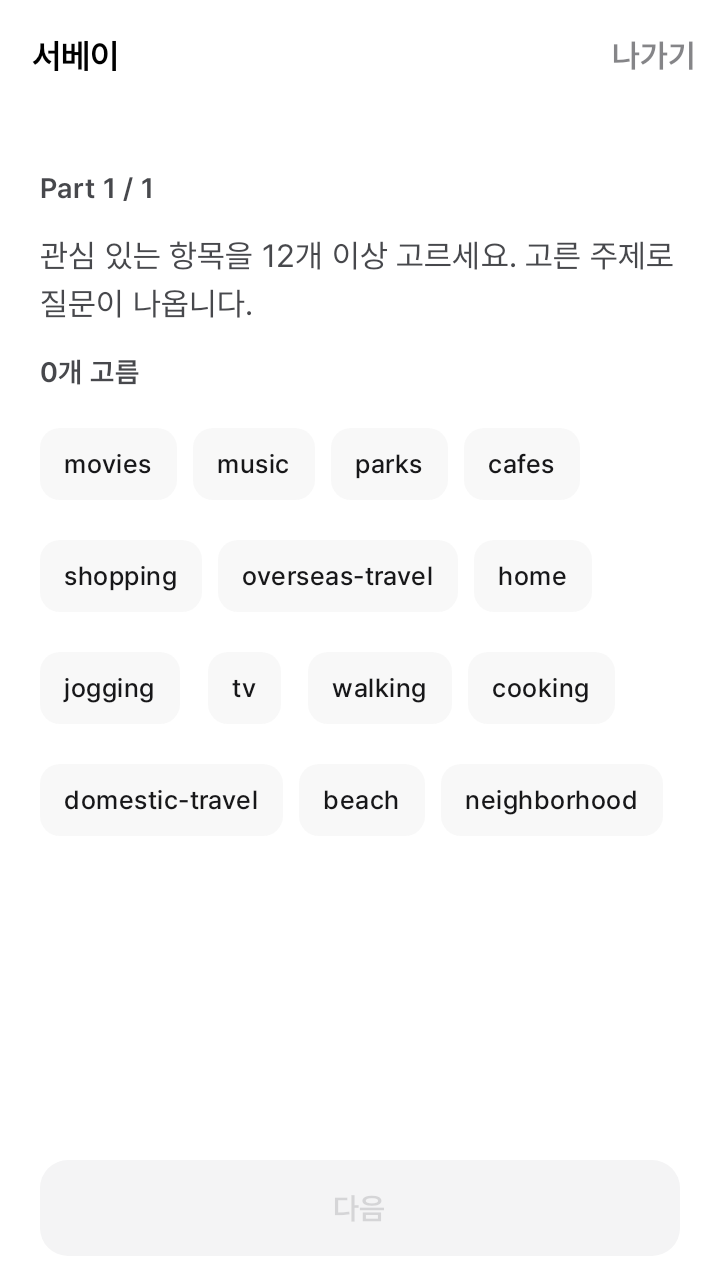
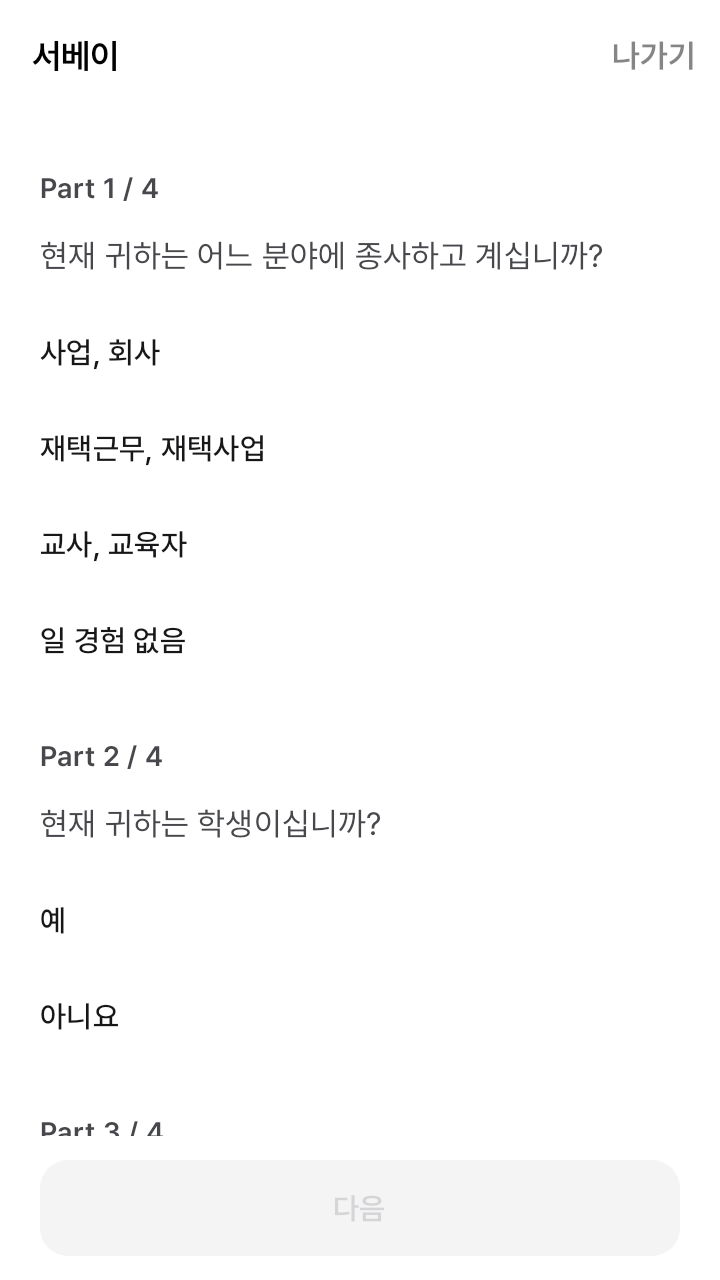
[n-survey] 서베이 Part 1~3 데이터를 시험 팩에 넣고 앱에서 넘긴다 (#141)
* [n-survey] 서베이 Part 1~3 질문과 보기를 시험 팩에 두었다 (#122)

* [n-survey] 앱이 팩의 서베이 Part 질문을 시험 화면에 넘긴다 (#122)

* [n-survey] 노드 상태를 doing 으로 바꿨다 (#122)

* [n-survey] 노드 상태를 done 으로 바꿨다 (#122)

---------

diff --git a/apps/opic/shared/src/commonTest/kotlin/io/github/nosorae/aiopic/apps/opic/shared/SurveyPartsWiringTest.kt b/apps/opic/shared/src/commonTest/kotlin/io/github/nosorae/aiopic/apps/opic/shared/SurveyPartsWiringTest.kt
@@ -1,0 +1,44 @@
+package io.github.nosorae.aiopic.apps.opic.shared
+
+import androidx.lifecycle.ViewModelProvider
+import androidx.lifecycle.ViewModelStore
+import androidx.lifecycle.viewmodel.initializer
+import androidx.lifecycle.viewmodel.viewModelFactory
+import io.github.nosorae.aiopic.engine.session.model.ExamStep
+import io.github.nosorae.aiopic.packs.opicen.OpicEn
+import io.github.nosorae.aiopic.ui.featureexam.ExamViewModel
+import io.github.nosorae.aiopic.ui.featureexam.SurveyPart
+import kotlinx.coroutines.Dispatchers
+import kotlinx.coroutines.flow.first
+import kotlinx.coroutines.test.StandardTestDispatcher
+import kotlinx.coroutines.test.resetMain
+import kotlinx.coroutines.test.runTest
+import kotlinx.coroutines.test.setMain
+import kotlin.test.AfterTest
+import kotlin.test.BeforeTest
+import kotlin.test.Test
+import kotlin.test.assertEquals
+
+/** 시험 팩의 서베이 Part 1~3 질문이 앱 그래프를 거쳐 시험 화면 상태까지 오는지 본다(F2.2). */
+class SurveyPartsWiringTest {
+    private val dispatcher = StandardTestDispatcher()
+    private val store = ViewModelStore()
+
+    @BeforeTest fun setUp() = Dispatchers.setMain(dispatcher)
+
+    @AfterTest
+    fun tearDown() {
+        store.clear()
+        Dispatchers.resetMain()
+    }
+
+    @Test
+    fun `F2_2 시험 화면의 서베이에 팩의 Part 1부터 3 질문과 보기가 그대로 들어온다`() = runTest(dispatcher) {
+        val graph = testAppGraph()
+        val viewModel = ViewModelProvider.create(store, viewModelFactory { initializer { graph.examViewModelFactory.create("s1") } })[ExamViewModel::class]
+
+        val state = viewModel.uiState.first { it.step is ExamStep.Survey }
+
+        assertEquals(OpicEn.surveyParts.map { (question, options) -> SurveyPart(question, options) }, state.surveyParts)
+    }
+}

diff --git a/apps/opic/shared/src/commonMain/kotlin/io/github/nosorae/aiopic/apps/opic/shared/AppGraph.kt b/apps/opic/shared/src/commonMain/kotlin/io/github/nosorae/aiopic/apps/opic/shared/AppGraph.kt
@@ -56,6 +56,7 @@ import io.github.nosorae.aiopic.packs.opicen.PromptFile
 import io.github.nosorae.aiopic.ui.featureexam.ExamContent
 import io.github.nosorae.aiopic.ui.featureexam.ExamRepository
 import io.github.nosorae.aiopic.ui.featureexam.ExamViewModel
+import io.github.nosorae.aiopic.ui.featureexam.SurveyPart
 import io.github.nosorae.aiopic.ui.featurehistory.HistoryStore
 import io.github.nosorae.aiopic.ui.featurehistory.HistoryViewModel
 import io.github.nosorae.aiopic.ui.featurehome.ExamSessionSource
@@ -180,11 +181,14 @@ interface AppGraph {
         OpicQuestionType.SocialIssue to "사회 이슈",
     ).mapKeys { it.key.type }
 
-    // ponytail: 시험 팩에 서베이 Part 1~3 질문이 아직 없어 주제 고르기만 보인다. 팩이 Part 질문을 내면 여기서 넘긴다
-
     /** 시험 화면을 열 때마다 만들어서 설정의 답변 타이머(F2.7)를 그때 값으로 읽는다. */
     @Provides
-    fun examContent(spec: ExamSpec, settings: AppSettings): ExamContent = ExamContent(spec, OpicEn.surveyTopics, surveyParts = emptyList(), answerTimer = settings.answerTimer)
+    fun examContent(spec: ExamSpec, settings: AppSettings): ExamContent = ExamContent(
+        spec,
+        OpicEn.surveyTopics,
+        surveyParts = OpicEn.surveyParts.map { (question, options) -> SurveyPart(question, options) },
+        answerTimer = settings.answerTimer,
+    )
 
     @Provides
     fun examRepository(

diff --git a/packs/opic-en/src/commonMain/kotlin/io/github/nosorae/aiopic/packs/opicen/OpicEn.kt b/packs/opic-en/src/commonMain/kotlin/io/github/nosorae/aiopic/packs/opicen/OpicEn.kt
@@ -39,6 +39,22 @@ object OpicEn {
 
     val gradeScale = GradeScale(OpicGrade.entries.map { it.name })
 
+    /**
+     * 서베이 주제 고르기 앞의 Part 1~3 질문과 보기(F2.2). 화면 모듈은 팩을 모르므로 질문 글자와 보기 목록 쌍으로 두고 앱이 화면 타입으로 옮긴다.
+     * 답은 출제에 쓰지 않는다. 실제 시험과 같은 순서를 밟아 보게 하려는 화면이다.
+     */
+    val surveyParts: List<Pair<String, List<String>>> = listOf(
+        "현재 귀하는 어느 분야에 종사하고 계십니까?" to listOf("사업, 회사", "재택근무, 재택사업", "교사, 교육자", "일 경험 없음"),
+        "현재 귀하는 학생이십니까?" to listOf("예", "아니요"),
+        "현재 귀하는 어디에 살고 계십니까?" to listOf(
+            "개인주택이나 아파트에 홀로 거주",
+            "친구나 룸메이트와 함께 주택이나 아파트에 거주",
+            "가족과 함께 주택이나 아파트에 거주",
+            "학교 기숙사",
+            "군대 막사",
+        ),
+    )
+
     /** 서베이에서 고를 수 있는 주제. 내장 문항 풀의 주제 id 와 같아야 그 주제 문항이 나온다(F6.2). */
     // ponytail: 화면에 주제 id 를 그대로 보인다. 한국어 이름은 문구 노드(u-copy)가 붙인다.
     val surveyTopics = listOf(

diff --git a/packs/opic-en/src/commonTest/kotlin/io/github/nosorae/aiopic/packs/opicen/OpicEnTest.kt b/packs/opic-en/src/commonTest/kotlin/io/github/nosorae/aiopic/packs/opicen/OpicEnTest.kt
@@ -3,6 +3,7 @@ package io.github.nosorae.aiopic.packs.opicen
 import io.github.nosorae.aiopic.engine.session.model.ExamStep
 import kotlin.test.Test
 import kotlin.test.assertEquals
+import kotlin.test.assertTrue
 import kotlin.time.Duration.Companion.minutes
 
 class OpicEnTest {
@@ -30,6 +31,12 @@ class OpicEnTest {
     @Test
     fun `F2_2 서베이는 12개 미만이면 다음으로 못 간다`() {
         assertEquals(ExamStep.Survey(minTopics = 12), steps.first())
+    }
+
+    @Test
+    fun `F2_2 서베이 Part 질문은 주제 앞에 셋이고 보기가 비어 있지 않다`() {
+        assertEquals(3, OpicEn.surveyParts.size)
+        assertTrue(OpicEn.surveyParts.all { (question, options) -> question.isNotBlank() && options.isNotEmpty() })
     }
 
     @Test

diff --git a/apps/opic/shared/src/androidHostTest/kotlin/io/github/nosorae/aiopic/apps/opic/shared/AppShellTest.kt b/apps/opic/shared/src/androidHostTest/kotlin/io/github/nosorae/aiopic/apps/opic/shared/AppShellTest.kt
@@ -107,7 +107,7 @@ class AppShellTest {
     fun `F3 나갔던 시험이 있으면 홈의 이어 보기가 같은 회차를 연다`() {
         start(AppRoute.Home, AppRoute.Exam("s"))
         waitForExam()
-        rule.onNodeWithText("관심 있는 항목을", substring = true).assertIsDisplayed()
+        rule.onNodeWithText("관심 있는 항목을", substring = true).performScrollTo().assertIsDisplayed()
         rule.onNodeWithText("나가기").performClick()
         rule.waitUntil(5_000) { rule.onAllNodes(hasText("이어 보기")).fetchSemanticsNodes().isNotEmpty() }
 

diff --git a/docs/graph/dev-graph.md b/docs/graph/dev-graph.md
@@ -2,7 +2,7 @@
 
 `scripts/graph/render.py` 가 `dev-graph.json` 에서 만든다. 손으로 고치지 않는다.
 
-노드 55개: todo 6, doing 0, done 49, blocked 0. 색은 회색 todo, 노랑 doing, 초록 done, 빨강 blocked 이다.
+노드 55개: todo 5, doing 0, done 50, blocked 0. 색은 회색 todo, 노랑 doing, 초록 done, 빨강 blocked 이다.
 
 ```mermaid
 flowchart TD
@@ -179,10 +179,10 @@ flowchart TD
   e2e_ios --> g5
   live --> g5
   classDef todo fill:#eeeeee,stroke:#999999,color:#000
-  class g4,n_survey,t_resume,e2e_ios,live,g5 todo
+  class g4,t_resume,e2e_ios,live,g5 todo
   classDef doing fill:#fff3b0,stroke:#d4a017,color:#000
   classDef done fill:#c8f7c5,stroke:#2e7d32,color:#000
-  class h0,h1,h2,h3,h4,g0,s1,s2,s3,s4,g1,c1,c2,c3,c5,c4,g2,n_state,n_db,n_gemini,n_route,n_key,n_tts,n_rec_a,n_rec_i,n_queue,n_quest,n_weak,n_eval,u_onb,u_shell,u_exam,u_single,u_report,u_flag,u_model,g3,n_data,n_di,u_copy,u_wire,u_settings2,e2e,docs,store,n_json,n_grade,n_flag2,n_gen done
+  class h0,h1,h2,h3,h4,g0,s1,s2,s3,s4,g1,c1,c2,c3,c5,c4,g2,n_state,n_db,n_gemini,n_route,n_key,n_tts,n_rec_a,n_rec_i,n_queue,n_quest,n_weak,n_eval,u_onb,u_shell,u_exam,u_single,u_report,u_flag,u_model,g3,n_data,n_di,u_copy,u_wire,u_settings2,e2e,docs,store,n_json,n_grade,n_flag2,n_gen,n_survey done
   classDef blocked fill:#ffcdd2,stroke:#c62828,color:#000
 ```
 
